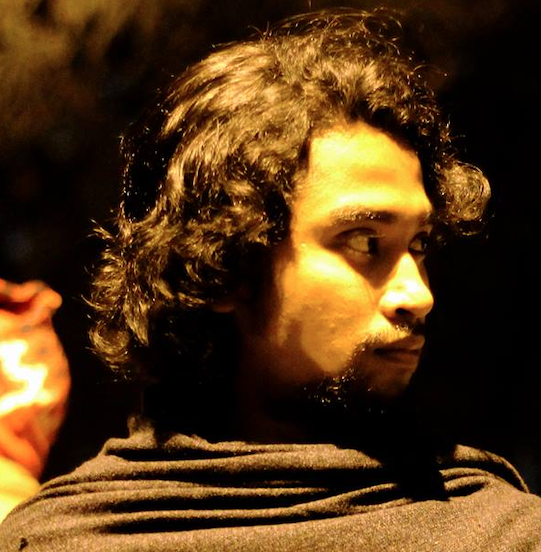
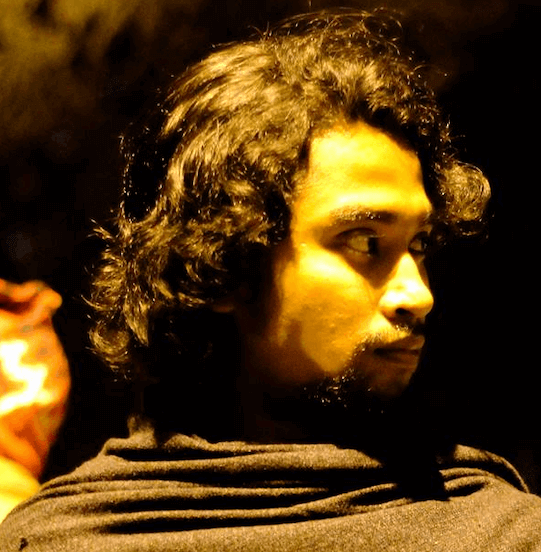
Convert all images to WebP format for optimization
- Converted 19 PNG images and 3 GIF images to WebP format
- Updated all image references in cv.json and blog markdown files
- Improved page load performance with optimized WebP images

diff --git a/src/app/blog/content/microservices-architecture-part-1.md b/src/app/blog/content/microservices-architecture-part-1.md
@@ -4,7 +4,7 @@
 
 মাইক্রোসার্ভিস আর্কিটেক্টচার হল এক ধরনের সফটওয়্যার ডেভেলপমেন্ট মেথড ।  মাইক্রোসার্ভিসে, পুরো সার্ভিসকে অথবা একটা বড় অ্যাপ্লিকেশনকে অনেক গুলো ছোট ছোট সার্ভিসে ভাগ করা হয় যেখানে প্রত্যেক সার্ভিস একটা নির্দিষ্ট কাজ করে । এটা অনেকটা ইউনিক্স(Unix) স্ট্যান্ডার্ডের মত । এর আগে হয়ত SOA সম্বন্ধে অনেক যায়গায় শুনে থাকতে পারেন , এটা অনেকটা সার্ভিস ওরিয়েন্টেড আর্কিটেকচারের মতই। প্রত্যেকটা সার্ভিস কাজ অনুযায়ী ভাগ করার পরে সার্ভিস গুলো কিভাবে একে অপরের সাথে যোগাযোগ করবে এটা সাধারণত অ্যাপলিকেশনের ধরনের উপরে নির্ভর করে সাধারণত সেটা হয় RestFUL API, RPC নয়তো Message BUS এর মাধ্যমে ।
 
-![মাইক্রোসার্ভিস আর্কিটেক্টচার](/blog/microservices-architecture-part-1-image-1.png)
+![মাইক্রোসার্ভিস আর্কিটেক্টচার](/blog/microservices-architecture-part-1-image-1.webp)
 
 মাইক্রোসার্ভিস আর্কিটেক্টচার
 

diff --git a/src/app/blog/content/nosql-database-part-1.md b/src/app/blog/content/nosql-database-part-1.md
@@ -36,7 +36,7 @@ NoSQL ডাটাবেসকে বানিয়েছে ইন্টারন
 
 এই ডাটাটাকে যদি RDBMS এ রাখতে হলে শুধু মাত্র **নাম** আর **ঠিকানা** রাখার জন্য  নিচের ছবির মত দুইটা টেবিল এ ভাগ করতে হত ।  আবার যদি একটা মানুষের অনেকগুলো ঠিকানা থাকে ? তাহলে আর একটা Pivot টেবিল বানাতে হত যেটাতে Primary Key আর  Foreign Key থাকত One To Many Relation এর ভিত্তিতে । উপরের ডাটাটাকে RDMBS এ Normalization সহ রাখতে হয়ত ৫-৬ টা টেবিল লাগতে পারে কমপক্ষে । কিন্তু NoSQL ডাটাবেসে এই পুরোটাই সংরক্ষণ করা যাবে যেভাবে JSON ডাটাটি  যেমন আছে ঠিক সেভাবেই । দরকার পড়লে পুরোটাই GET করা যাবে কোন JOIN ছাড়াই । ভবিষ্যতে দরকার পড়লে CRUD অপারেশন ও Atomic অপারেশন (নির্দিষ্ট এক জায়গায় পরিবর্তন) চালানো যাবে এর উপরে।
 
-![](/blog/nosql-database-part-1-image-1.png)
+![](/blog/nosql-database-part-1-image-1.webp)
 
 ট্র্যাডিশনাল RDBMS ডাটাবেস ডিজাইন
 
